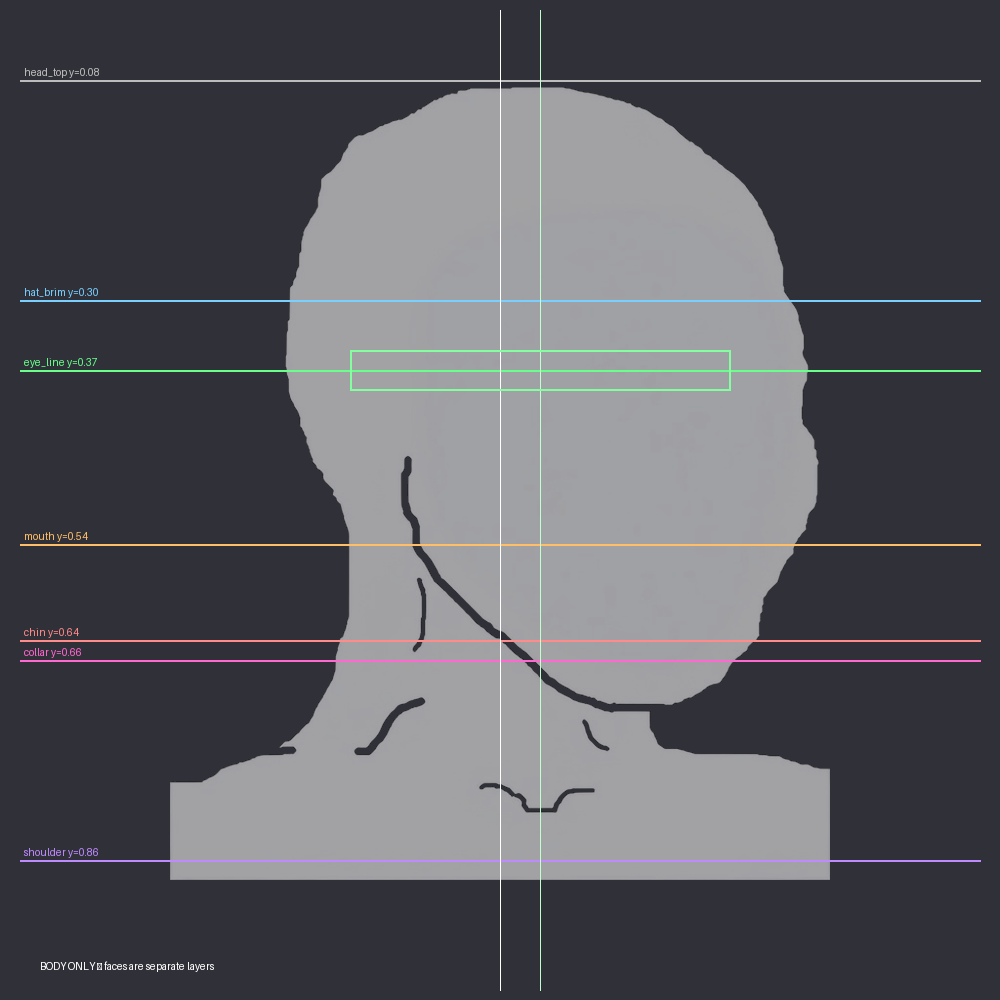
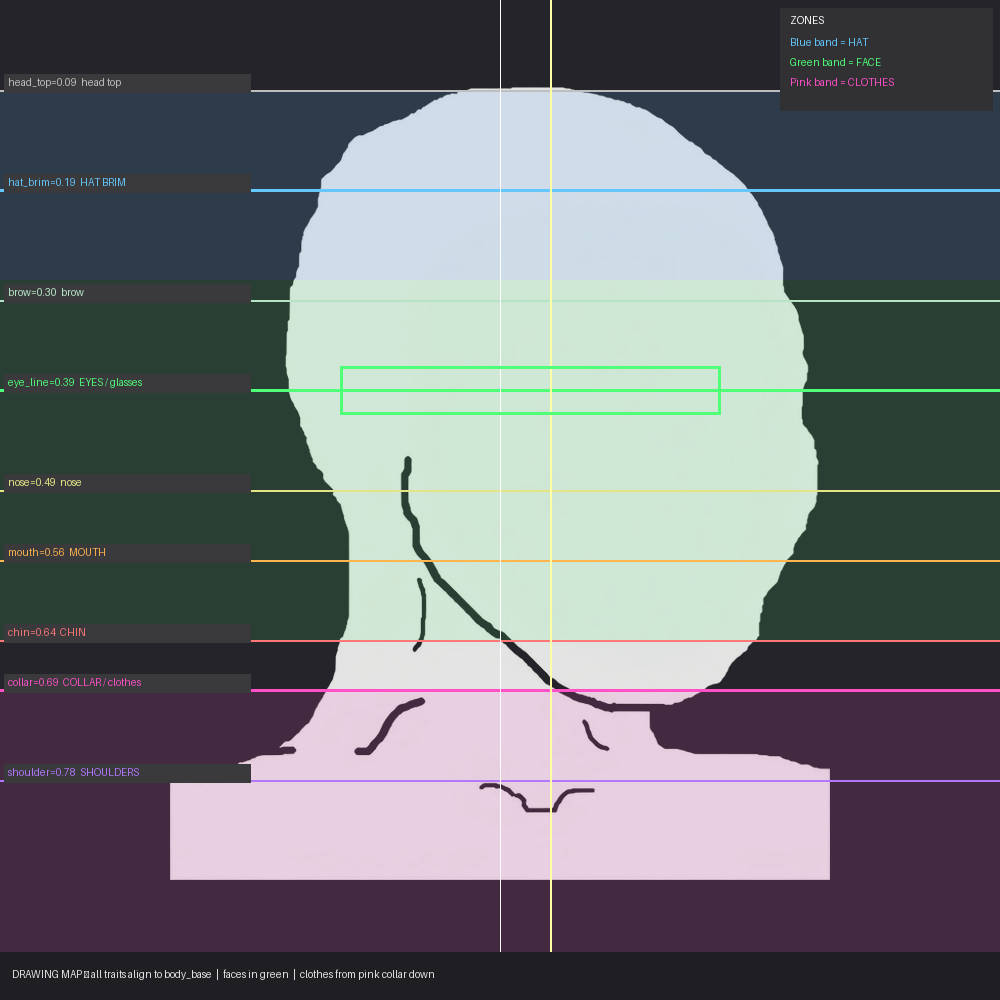
Dial in drawing map from body anatomy
Recalibrate guide lines from body_base silhouette measurements and face overlay check. Ship full, clean, and face-check drawing maps as the placement source of truth for all traits.

diff --git a/layers/base/DRAWING_MAP.md b/layers/base/DRAWING_MAP.md
@@ -1,0 +1,49 @@
+# Drawing map (source of truth for placement)
+
+All production traits align to **`layers/base/body_base.png`** using this map.
+
+## Open
+
+| File | Use |
+|---|---|
+| `layers/base/drawing_map.png` | Full map + zones (primary) |
+| `layers/base/drawing_map_clean.png` | Key lines only |
+| `layers/base/drawing_map_with_face_check.png` | Body + sample face + lines (sanity check) |
+| `layers/base/workbench_draw_here.png` | Same as full map — draw on this |
+
+Numbers: `layers/base/skeleton.json` / `config/template_skeleton.json`
+
+## Key guides (y = fraction of 1000px)
+
+| Guide | y | Purpose |
+|---|---|---|
+| hat_brim | **0.19** | Bottom edge of hats / caps |
+| eye_line | **0.39** | Pupils + glasses center |
+| mouth | **0.56** | Mouth |
+| chin | **0.64** | Bottom of face oval |
+| collar | **0.69** | **Top of all clothing** |
+| shoulder | **0.78** | Shoulder line |
+
+## Key guides (x)
+
+| Guide | x | Purpose |
+|---|---|---|
+| head_center_x | **0.55** | Head midline (3/4 view, not canvas center) |
+| accessory_center_x | **0.53** | Glasses / eyes box center |
+| eye_span | **0.38** | Width of glasses / eyes box |
+
+## Zones
+
+1. **HAT** (blue) — top of head → brow; brim on cyan line  
+2. **FACE** (green) — features only on blank head; eyes in green box  
+3. **CLOTHING** (pink) — from pink collar line to bottom of canvas  
+
+## Layer stack
+
+`background → body → face → clothing → mask → accessory → hat`
+
+## How this was dialed
+
+Measured from `body_base` silhouette width profile (head width peaks at eyes, neck narrows, shoulders expand), then adjusted with a sample face overlay so pupils land in the eyes box.
+
+When redrawing: **trust the map, not the old style_ref placement.**

diff --git a/template/DRAWING_MAP.md b/template/DRAWING_MAP.md
@@ -1,0 +1,49 @@
+# Drawing map (source of truth for placement)
+
+All production traits align to **`layers/base/body_base.png`** using this map.
+
+## Open
+
+| File | Use |
+|---|---|
+| `layers/base/drawing_map.png` | Full map + zones (primary) |
+| `layers/base/drawing_map_clean.png` | Key lines only |
+| `layers/base/drawing_map_with_face_check.png` | Body + sample face + lines (sanity check) |
+| `layers/base/workbench_draw_here.png` | Same as full map — draw on this |
+
+Numbers: `layers/base/skeleton.json` / `config/template_skeleton.json`
+
+## Key guides (y = fraction of 1000px)
+
+| Guide | y | Purpose |
+|---|---|---|
+| hat_brim | **0.19** | Bottom edge of hats / caps |
+| eye_line | **0.39** | Pupils + glasses center |
+| mouth | **0.56** | Mouth |
+| chin | **0.64** | Bottom of face oval |
+| collar | **0.69** | **Top of all clothing** |
+| shoulder | **0.78** | Shoulder line |
+
+## Key guides (x)
+
+| Guide | x | Purpose |
+|---|---|---|
+| head_center_x | **0.55** | Head midline (3/4 view, not canvas center) |
+| accessory_center_x | **0.53** | Glasses / eyes box center |
+| eye_span | **0.38** | Width of glasses / eyes box |
+
+## Zones
+
+1. **HAT** (blue) — top of head → brow; brim on cyan line  
+2. **FACE** (green) — features only on blank head; eyes in green box  
+3. **CLOTHING** (pink) — from pink collar line to bottom of canvas  
+
+## Layer stack
+
+`background → body → face → clothing → mask → accessory → hat`
+
+## How this was dialed
+
+Measured from `body_base` silhouette width profile (head width peaks at eyes, neck narrows, shoulders expand), then adjusted with a sample face overlay so pupils land in the eyes box.
+
+When redrawing: **trust the map, not the old style_ref placement.**

diff --git a/README.md b/README.md
@@ -29,6 +29,13 @@ style_ref/                 # originals for design reference
 template/                  # docs + eye style reference
 ```
 
+## Drawing map (dial this in first)
+
+Primary: `layers/base/drawing_map.png`  
+Clean: `layers/base/drawing_map_clean.png`  
+Face check: `layers/base/drawing_map_with_face_check.png`  
+Docs: `template/DRAWING_MAP.md`
+
 ## Open these
 
 | File | Why |
